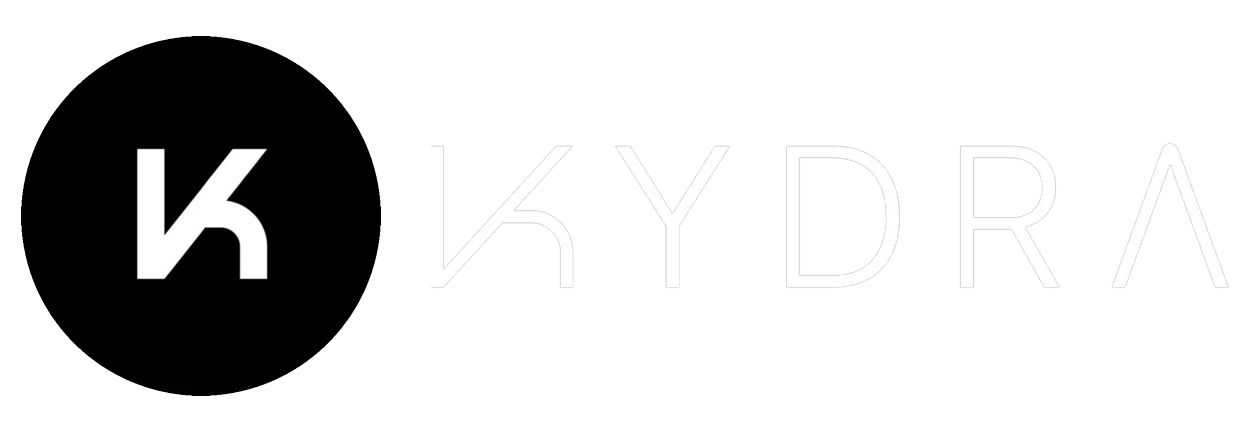
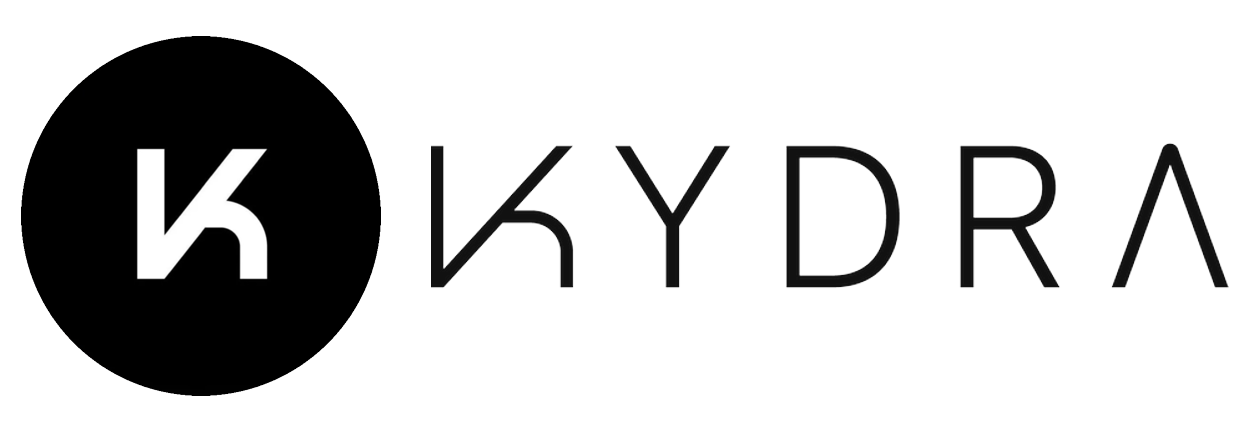
Switch to a light theme for bright/outdoor use
- Flip the palette to a light theme (soft off-white ground, white cards,
  dark high-contrast text); readable accent green/coral/blue on white
- Convert dark fills (inputs, round headers, knockout/podium/champion
  panels, sponsor bar, standings highlight) to light equivalents
- Recolor accent text that was invisible on white (pool colors, gender
  chips, live/knockout indicators, sponsor link colors)
- Regenerate the KYDRA logo with a black wordmark so it reads on white
- Drop the dark-theme cyan border glow
- Rules-tab illustrations keep their own dark card backgrounds

Claude-Session: https://claude.ai/code/session_01EVP6QXrpdre5eETfsbEds8

diff --git a/csbvtourn6/css/styles.css b/csbvtourn6/css/styles.css
@@ -1,15 +1,14 @@
 :root{
-  --bg:#000000;--surface:#122010;--card:#18291A;--border:#2A4A2E;
-  --accent:#C8F04A;--coral:#FF6B3D;--sky:#4DD9E8;--purple:#B57BFF;
-  --gold:#FFD166;--muted:#5A7A5E;--text:#E8F5E4;--dim:#8AAF8E;
+  /* Light theme — high contrast for bright / outdoor use */
+  --bg:#F2F5F0;--surface:#E6EBE2;--card:#FFFFFF;--border:#CCD7C9;
+  --accent:#2C8C3A;--coral:#D64C1E;--sky:#1C82BE;--purple:#7642C9;
+  --gold:#A9780A;--muted:#5C7362;--text:#16241C;--dim:#3A4C40;
+  color-scheme:light;
 }
 *{box-sizing:border-box;margin:0;padding:0;}
 body{font-family:'Karla',sans-serif;background:var(--bg);color:var(--text);min-height:100vh;}
-/* Cyan ambient glow hugging the page borders */
-body::after{content:"";position:fixed;inset:0;pointer-events:none;z-index:900;
-  box-shadow:inset 0 0 55px 0 rgba(77,217,232,.12), inset 0 0 2px rgba(77,217,232,.22);}
 a{color:var(--accent);text-decoration:none;}
-code{background:#1E3A20;padding:2px 6px;border-radius:4px;font-size:.82em;}
+code{background:var(--surface);padding:2px 6px;border-radius:4px;font-size:.82em;}
 
 .app-wrap{max-width:960px;margin:0 auto;padding:0 16px 80px;}
 #root{padding-bottom:40px;}
@@ -105,7 +104,7 @@ code{background:#1E3A20;padding:2px 6px;border-radius:4px;font-size:.82em;}
   text-transform:uppercase;padding:7px 10px;text-align:left;border-bottom:1px solid var(--border);}
 .standings td{padding:6px 10px;border-bottom:1px solid #1E3A20;}
 .standings tr:last-child td{border-bottom:none;}
-.standings tr.qualify{background:#1A3A1E;}
+.standings tr.qualify{background:#E7F4E9;}
 .rank-dot{width:20px;height:20px;border-radius:50%;display:inline-flex;align-items:center;justify-content:center;
   font-family:'Barlow Condensed',sans-serif;font-size:.75rem;font-weight:700;margin-right:4px;}
 .qualify-pill{font-size:.57rem;letter-spacing:1px;background:#27AE6033;color:#27AE60;border:1px solid #27AE6055;
@@ -121,10 +120,10 @@ code{background:#1E3A20;padding:2px 6px;border-radius:4px;font-size:.82em;}
 .match-block:last-child .match-row{border-bottom:none;}
 .round-block{margin-bottom:10px;border:1px solid #1E3A20;border-radius:10px;overflow:hidden;}
 .round-header{display:flex;align-items:center;justify-content:space-between;
-  padding:6px 12px;background:#0E2414;border-bottom:1px solid #1E3A20;}
+  padding:6px 12px;background:var(--surface);border-bottom:1px solid var(--border);}
 .round-label{font-family:'Barlow Condensed',sans-serif;font-size:.8rem;font-weight:700;
-  letter-spacing:2px;color:#4A7A50;text-transform:uppercase;}
-.round-bye{font-size:.72rem;color:#3A5A3E;letter-spacing:.5px;}
+  letter-spacing:2px;color:var(--dim);text-transform:uppercase;}
+.round-bye{font-size:.72rem;color:var(--muted);letter-spacing:.5px;}
 .slot-num{font-family:'Barlow Condensed',sans-serif;font-size:.75rem;font-weight:700;color:var(--muted);
   width:18px;text-align:center;flex-shrink:0;margin-left:8px;}
 .court-tag{font-family:'Barlow Condensed',sans-serif;font-size:.68rem;font-weight:700;letter-spacing:1px;
@@ -137,7 +136,7 @@ code{background:#1E3A20;padding:2px 6px;border-radius:4px;font-size:.82em;}
 .vs-sep{font-size:.68rem;color:var(--muted);flex-shrink:0;}
 .score-box-wrap{flex-shrink:0;}
 .score-box{display:flex;align-items:center;gap:4px;flex-shrink:0;}
-.score-inp{width:38px;background:#0C1A14;border:1px solid var(--border);border-radius:6px;
+.score-inp{width:38px;background:#fff;border:1px solid var(--border);border-radius:6px;
   color:var(--text);font-family:'Barlow Condensed',sans-serif;font-size:1rem;text-align:center;padding:3px 4px;outline:none;}
 .score-inp:focus{border-color:var(--accent);}
 .score-dash{color:var(--muted);font-size:.8rem;}
@@ -183,8 +182,8 @@ code{background:#1E3A20;padding:2px 6px;border-radius:4px;font-size:.82em;}
 .ko-grid-1{grid-template-columns:1fr;}
 @media(max-width:560px){.ko-grid-4,.ko-grid-2{grid-template-columns:1fr;}}
 .ko-card{background:var(--card);border:1px solid var(--border);border-radius:12px;padding:16px;}
-.ko-card.final-card{border-color:#FFD16655;background:#1E1A08;}
-.ko-card.third-card{border-color:#CD7F3255;background:#1C1408;}
+.ko-card.final-card{border-color:#E6C34D;background:#FFF8E4;}
+.ko-card.third-card{border-color:#D9A15A;background:#FBF1E4;}
 .ko-label{font-family:'Barlow Condensed',sans-serif;font-size:.75rem;letter-spacing:2px;color:var(--muted);
   text-transform:uppercase;margin-bottom:10px;display:flex;align-items:center;gap:7px;}
 .ko-match-row{display:flex;align-items:center;justify-content:space-between;padding:6px 0;border-bottom:1px solid var(--border);}
@@ -196,7 +195,7 @@ code{background:#1E3A20;padding:2px 6px;border-radius:4px;font-size:.82em;}
 .ko-score{font-family:'Barlow Condensed',sans-serif;font-size:1.1rem;min-width:28px;text-align:center;}
 
 /* ── CHAMPION ── */
-.champion-banner{background:linear-gradient(135deg,#1E1A08,#2A2408);border:1px solid var(--gold);
+.champion-banner{background:linear-gradient(135deg,#FFF6DA,#FFEFC0);border:1px solid var(--gold);
   border-radius:16px;padding:32px;text-align:center;margin-bottom:28px;}
 .champion-icon{font-size:3rem;margin-bottom:8px;}
 .champion-label{font-family:'Barlow Condensed',sans-serif;font-size:.85rem;letter-spacing:3px;color:var(--gold);
@@ -239,7 +238,7 @@ code{background:#1E3A20;padding:2px 6px;border-radius:4px;font-size:.82em;}
 .podium-step{display:flex;flex-direction:column;border:1px solid var(--border);
   border-bottom:none;border-radius:14px 14px 0 0;overflow:hidden;text-align:center;}
 .podium-top{flex:1;display:flex;flex-direction:column;justify-content:flex-end;
-  background:linear-gradient(135deg,#14110A,#1E1A0C);padding:14px 8px 12px;}
+  background:linear-gradient(135deg,#FBFCF9,#EFF3EC);padding:14px 8px 12px;}
 .podium-medal{font-size:2rem;line-height:1;margin-bottom:6px;}
 .podium-place{font-family:'Barlow Condensed',sans-serif;font-size:.7rem;letter-spacing:2px;
   text-transform:uppercase;color:var(--muted);margin-bottom:4px;}
@@ -247,9 +246,9 @@ code{background:#1E3A20;padding:2px 6px;border-radius:4px;font-size:.82em;}
   line-height:1.1;word-break:break-word;}
 .podium-players{font-family:'Hanken Grotesk',sans-serif;font-size:.74rem;font-weight:600;line-height:1.35;
   color:var(--text);margin-top:5px;word-break:break-word;}
-.podium-gold .podium-players{color:#FFE08A;text-shadow:0 0 10px #FFD16655;}
-.podium-silver .podium-players{color:#E6ECF5;}
-.podium-bronze .podium-players{color:#F0B07E;}
+.podium-gold .podium-players{color:#8A6A10;}
+.podium-silver .podium-players{color:#5A6472;}
+.podium-bronze .podium-players{color:#9A5A2A;}
 /* Coloured step block — descending heights form the podium staircase */
 .podium-bar{font-family:'Barlow Condensed',sans-serif;font-weight:900;font-size:1.5rem;
   display:flex;align-items:center;justify-content:center;
@@ -263,11 +262,11 @@ code{background:#1E3A20;padding:2px 6px;border-radius:4px;font-size:.82em;}
 .podium-gold .podium-bar{color:#1E1A08;background:var(--gold);border-top-color:var(--gold);}
 .podium-gold .podium-name{font-size:1.6rem;}
 .podium-silver{border-color:#C8D0DA88;}
-.podium-silver .podium-place,.podium-silver .podium-name{color:#C8D0DA;}
+.podium-silver .podium-place,.podium-silver .podium-name{color:#6B7686;}
 .podium-silver .podium-bar{color:#14110A;background:#C8D0DA;border-top-color:#C8D0DA;}
 .podium-silver .podium-name{font-size:1.2rem;}
 .podium-bronze{border-color:#CD7F3288;}
-.podium-bronze .podium-place,.podium-bronze .podium-name{color:#D9925A;}
+.podium-bronze .podium-place,.podium-bronze .podium-name{color:#B5651D;}
 .podium-bronze .podium-bar{color:#14110A;background:#CD7F32;border-top-color:#CD7F32;}
 .podium-bronze .podium-name{font-size:1.2rem;}
 @media(max-width:480px){.podium{gap:6px;}.podium-gold .podium-name{font-size:1.2rem;}
@@ -308,12 +307,12 @@ code{background:#1E3A20;padding:2px 6px;border-radius:4px;font-size:.82em;}
 .player-row:last-child{margin-bottom:0;}
 .gender-badge{font-family:'Barlow Condensed',sans-serif;font-size:.72rem;font-weight:700;
   letter-spacing:1.5px;padding:3px 9px;border-radius:10px;white-space:nowrap;flex-shrink:0;min-width:72px;text-align:center;}
-.player-inp{flex:1;background:#0C1A14;border:1px solid var(--border);border-radius:6px;
+.player-inp{flex:1;background:#fff;border:1px solid var(--border);border-radius:6px;
   color:var(--text);font-family:'Karla',sans-serif;font-size:.83rem;padding:6px 10px;outline:none;}
 .player-inp:focus{border-color:var(--accent);}
-.player-inp::placeholder{color:#3A5A3E;}
+.player-inp::placeholder{color:var(--muted);}
 .player-view-row{display:flex;align-items:center;gap:10px;padding:6px 0;
-  border-bottom:1px solid #1E3A20;font-size:.85rem;}
+  border-bottom:1px solid var(--border);font-size:.85rem;}
 .player-view-row:last-child{border-bottom:none;}
 /* ── SCHEDULE TAB ── */
 .sched-table-wrap{overflow-x:auto;border-radius:12px;border:1px solid var(--border);}
@@ -409,9 +408,9 @@ code{background:#1E3A20;padding:2px 6px;border-radius:4px;font-size:.82em;}
 
 .inv-cat-dot{display:inline-block;width:8px;height:8px;border-radius:50%;margin-right:6px;
   vertical-align:middle;}
-.inv-cat-ball{background:#C8F04A;}
-.inv-cat-net{background:#4DD9E8;}
-.inv-cat-other{background:#B57BFF;}
+.inv-cat-ball{background:#2C8C3A;}
+.inv-cat-net{background:#1C82BE;}
+.inv-cat-other{background:#7642C9;}
 
 .inv-check-wrap{display:flex;justify-content:center;}
 .inv-check-wrap input{accent-color:#27AE60;width:16px;height:16px;cursor:pointer;}
@@ -436,9 +435,9 @@ code{background:#1E3A20;padding:2px 6px;border-radius:4px;font-size:.82em;}
   text-transform:capitalize;transition:border-color .15s;}
 .inv-type-sel:hover{border-bottom-color:var(--border);}
 .inv-type-sel:focus{border-bottom-color:var(--accent);color:var(--text);}
-.inv-type-ball{color:#C8F04A;}
-.inv-type-net{color:#4DD9E8;}
-.inv-type-other{color:#B57BFF;}
+.inv-type-ball{color:#2C8C3A;}
+.inv-type-net{color:#1C82BE;}
+.inv-type-other{color:#7642C9;}
 .inv-qty-inp{font-family:'Barlow Condensed',sans-serif;font-size:1.3rem;font-weight:700;
   width:48px;text-align:center;background:transparent;border:none;
   border-bottom:1px solid var(--border);outline:none;padding:2px 0;}
@@ -470,8 +469,8 @@ code{background:#1E3A20;padding:2px 6px;border-radius:4px;font-size:.82em;}
 .team-player-list{display:flex;gap:8px;flex-wrap:wrap;padding-left:24px;}
 .player-chip{font-size:.72rem;padding:3px 9px;border-radius:10px;font-weight:600;
   letter-spacing:.5px;white-space:nowrap;}
-.male-chip{background:#4DD9E818;color:#4DD9E8;border:1px solid #4DD9E844;}
-.female-chip{background:#B57BFF18;color:#B57BFF;border:1px solid #B57BFF44;}
+.male-chip{background:#1C82BE18;color:#1C82BE;border:1px solid #1C82BE44;}
+.female-chip{background:#7642C918;color:#7642C9;border:1px solid #7642C944;}
 
 /* ── POOL CARD EXPAND/COLLAPSE ── */
 .pool-header-clickable{cursor:pointer;user-select:none;transition:background .15s;}
@@ -589,7 +588,7 @@ code{background:#1E3A20;padding:2px 6px;border-radius:4px;font-size:.82em;}
 .spon-splitbar{display:flex;flex-wrap:wrap;align-items:center;justify-content:center;gap:16px 34px;
   width:100%;box-sizing:border-box;}
 /* sticky top strip: stays visible while the content scrolls (mobile + narrow) */
-.spon-splitbar-bar{position:sticky;top:0;z-index:860;background:#000;
+.spon-splitbar-bar{position:sticky;top:0;z-index:860;background:var(--bg);
   border-bottom:1px solid var(--border);padding:9px 16px;}
 /* stretch across the .landing-wrap side padding so logos aren't squeezed */
 .spon-splitbar-hero{width:auto;align-self:stretch;margin:0 -16px;padding:16px 8px 8px;}

diff --git a/csbvtourn6/js/render.js b/csbvtourn6/js/render.js
@@ -8,13 +8,13 @@ import { state, isAdmin, isConfigured } from "./state.js";
    will replace the styled text fallback automatically.
 ========================================================================== */
 const SPONSORS = [
-  { name:"KYDRA", logo:"sponsor-kydra.png", color:"#E8F5E4",
+  { name:"KYDRA", logo:"sponsor-kydra.png", color:"#111111",
     desc:"Craft activewear, designed in Singapore. Work · Training · Life.",
     link:"kydra.co", href:"https://www.kydra.co", ig:"kydraofficial" },
-  { name:"The Ice Bath Club", logo:"sponsor-icebath.png", color:"#4DD9E8",
+  { name:"The Ice Bath Club", logo:"sponsor-icebath.png", color:"#1C82BE",
     desc:"Cold-water recovery & ice baths to keep players fresh all day.",
     link:"theicebathclubs.com", href:"https://www.theicebathclubs.com", ig:"icebathclub_sg" },
-  { name:"ANHE TCM Clinic", logo:"sponsor-anhe.png", color:"#FF6B3D",
+  { name:"ANHE TCM Clinic", logo:"sponsor-anhe.png", color:"#C0392B",
     desc:"Traditional Chinese Medicine — recovery, treatment & wellness.",
     link:"anhezhongyi", href:"https://sitelift.site/anhezhongyi/", ig:"anhetcm" },
 ];
@@ -331,7 +331,7 @@ function koCardHTML(m, stage, idx) {
       <span class="ko-team ${!name?"tbd":won?"won":lost?"lost":""}">
         ${esc(name)||"TBD"}${won?` <span style="margin-left:6px;font-size:.7rem">&#128081;</span>`:""}
       </span>
-      ${m.status==="done"?`<span class="ko-score" style="color:${won?"#C8F04A":"#5A7A5E"}">${score}</span>`:""}
+      ${m.status==="done"?`<span class="ko-score" style="color:${won?"#2C8C3A":"#5A7A5E"}">${score}</span>`:""}
     </div>`;
 
   let actionHTML;
@@ -438,7 +438,7 @@ function renderTournament() {
       <div style="display:flex;flex-direction:column;align-items:flex-end;gap:8px">
         <div class="hdr-stats">
           <div><div class="hdr-stat-val">${donePool}/${totalPool}</div><div class="hdr-stat-lbl">Pool Done</div></div>
-          <div><div class="hdr-stat-val" style="color:${livePool>0?"#FF6B3D":"#C8F04A"}">${livePool>0?livePool+"&#128308;":phase==="knockout"?"&#128293;":"&#9203;"}</div>
+          <div><div class="hdr-stat-val" style="color:${livePool>0?"#FF6B3D":"#2C8C3A"}">${livePool>0?livePool+"&#128308;":phase==="knockout"?"&#128293;":"&#9203;"}</div>
             <div class="hdr-stat-lbl">${livePool>0?"Live Now":phase==="knockout"?"Knockout":"Pool Phase"}</div></div>
         </div>
         <div style="display:flex;align-items:center;gap:8px">
@@ -653,9 +653,9 @@ function renderTournament() {
         if (admin) {
           // Editable: team name (propagates to pool) + 2 male + 1 female players
           const playerInputs = [
-            { idx:0, gender:"male",   label:"M Male 1",  icon:"[M]", color:"#4DD9E8" },
-            { idx:1, gender:"male",   label:"M Male 2",  icon:"[M]", color:"#4DD9E8" },
-            { idx:2, gender:"female", label:"F Female",  icon:"[F]", color:"#B57BFF" },
+            { idx:0, gender:"male",   label:"M Male 1",  icon:"[M]", color:"#1C82BE" },
+            { idx:1, gender:"male",   label:"M Male 2",  icon:"[M]", color:"#1C82BE" },
+            { idx:2, gender:"female", label:"F Female",  icon:"[F]", color:"#7642C9" },
           ].map(({idx,label,icon,color}) => `
             <div class="player-row">
               <span class="gender-badge" style="background:${color}18;color:${color};border:1px solid ${color}44">${label}</span>
@@ -689,9 +689,9 @@ function renderTournament() {
               <span style="${!name?"color:#5A7A5E;font-style:italic":""}">${esc(name)||"Not listed"}</span>
             </div>`;
           const playerList = `
-            ${viewRow("M Male 1","#4DD9E818","#4DD9E8",male1)}
-            ${viewRow("M Male 2","#4DD9E818","#4DD9E8",male2)}
-            ${viewRow("F Female","#B57BFF18","#B57BFF",female)}
+            ${viewRow("M Male 1","#1C82BE18","#1C82BE",male1)}
+            ${viewRow("M Male 2","#1C82BE18","#1C82BE",male2)}
+            ${viewRow("F Female","#7642C918","#7642C9",female)}
             ${!complete?`<div style="font-size:.7rem;color:#FF6B3D;margin-top:6px">(!) Roster incomplete</div>`:""}
           `;
 
@@ -1125,7 +1125,7 @@ function rulesContent() {
   return `
   <div class="rules-wrap">
     <div class="rules-intro">
-      <strong style="color:#C8F04A">CSBV 6.0 &bull; Rules in Motion.</strong>
+      <strong style="color:#2C8C3A">CSBV 6.0 &bull; Rules in Motion.</strong>
       Each card below is an animated explainer of a core tournament rule.
       Share this page directly: <code>mmedabo.github.io/csbvtourn6/#rules</code>
     </div>

diff --git a/csbvtourn6/js/config.js b/csbvtourn6/js/config.js
@@ -34,7 +34,7 @@ const DB_NS = "csbv6";
    CONSTANTS
 ========================================================================== */
 const POOL_NAMES  = ["A","B"];
-const POOL_COLORS = ["#C8F04A","#FF6B3D"];
+const POOL_COLORS = ["#2C8C3A","#D64C1E"];
 // Four courts per pool: pool A plays on A1-A4, pool B on B1-B4.
 const COURT_NAMES = ["Court A1","Court A2","Court A3","Court A4",
                      "Court B1","Court B2","Court B3","Court B4"];
